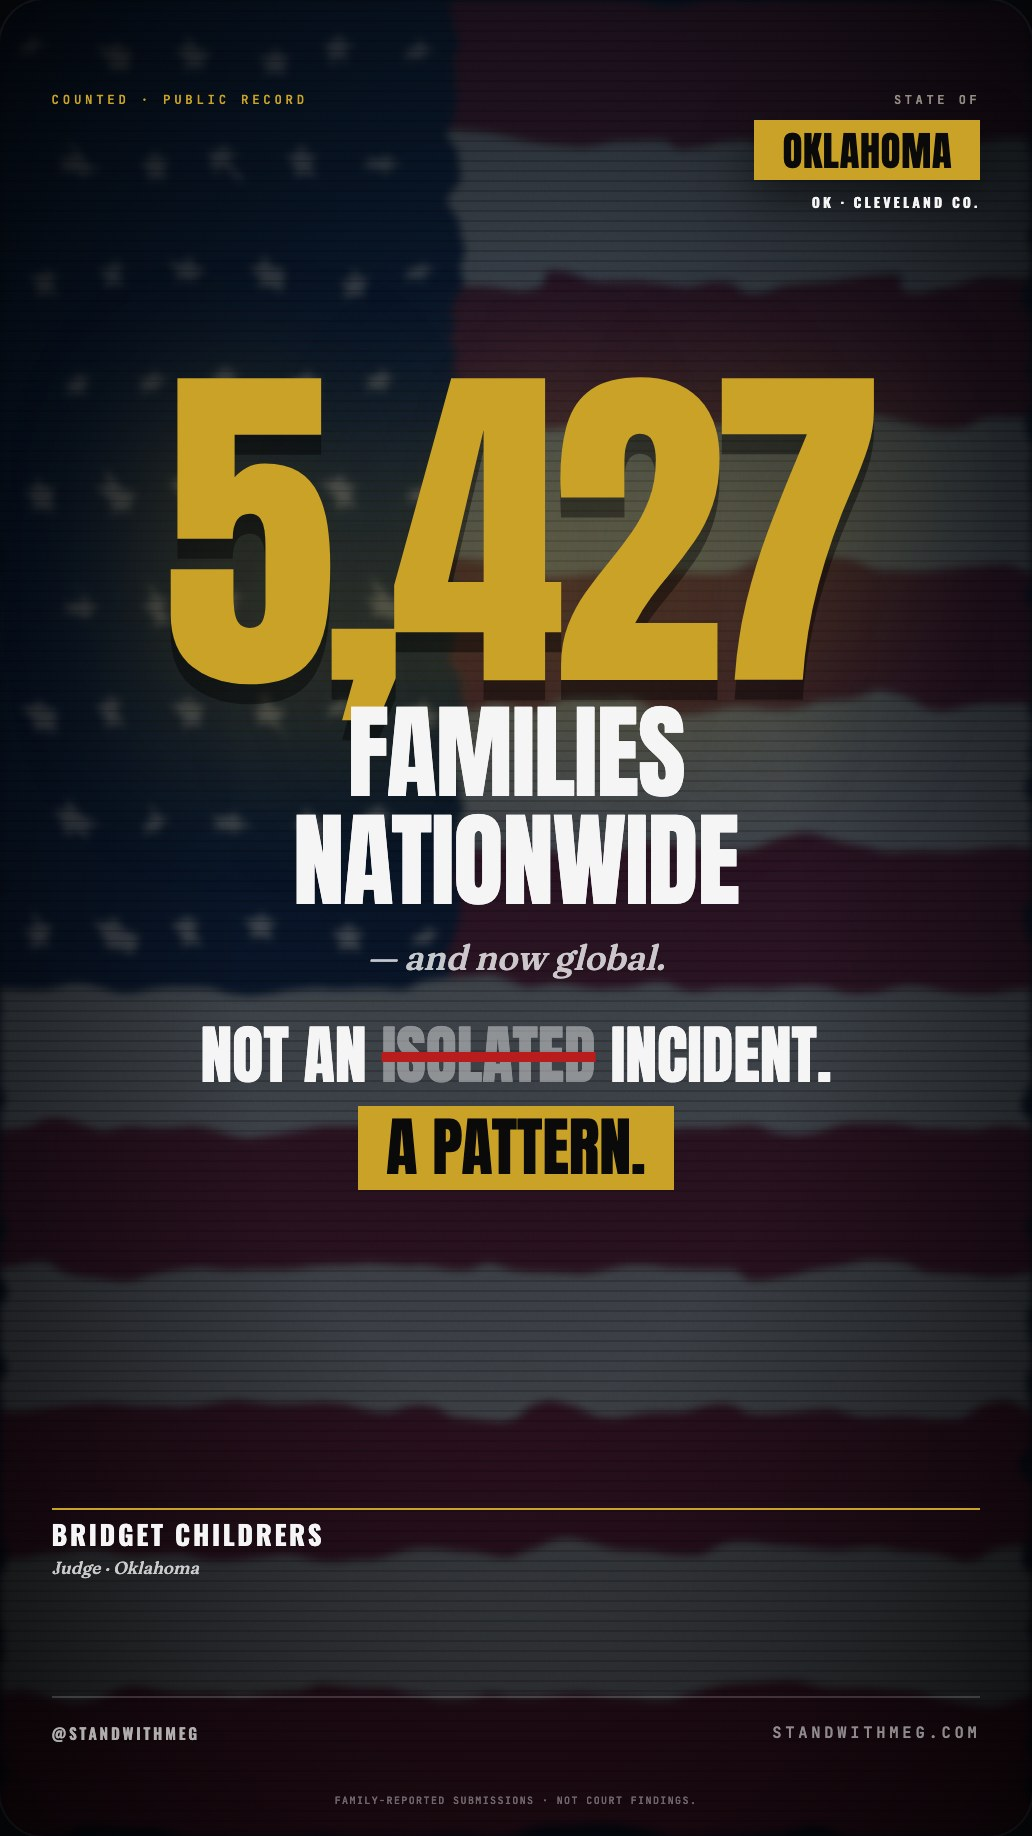
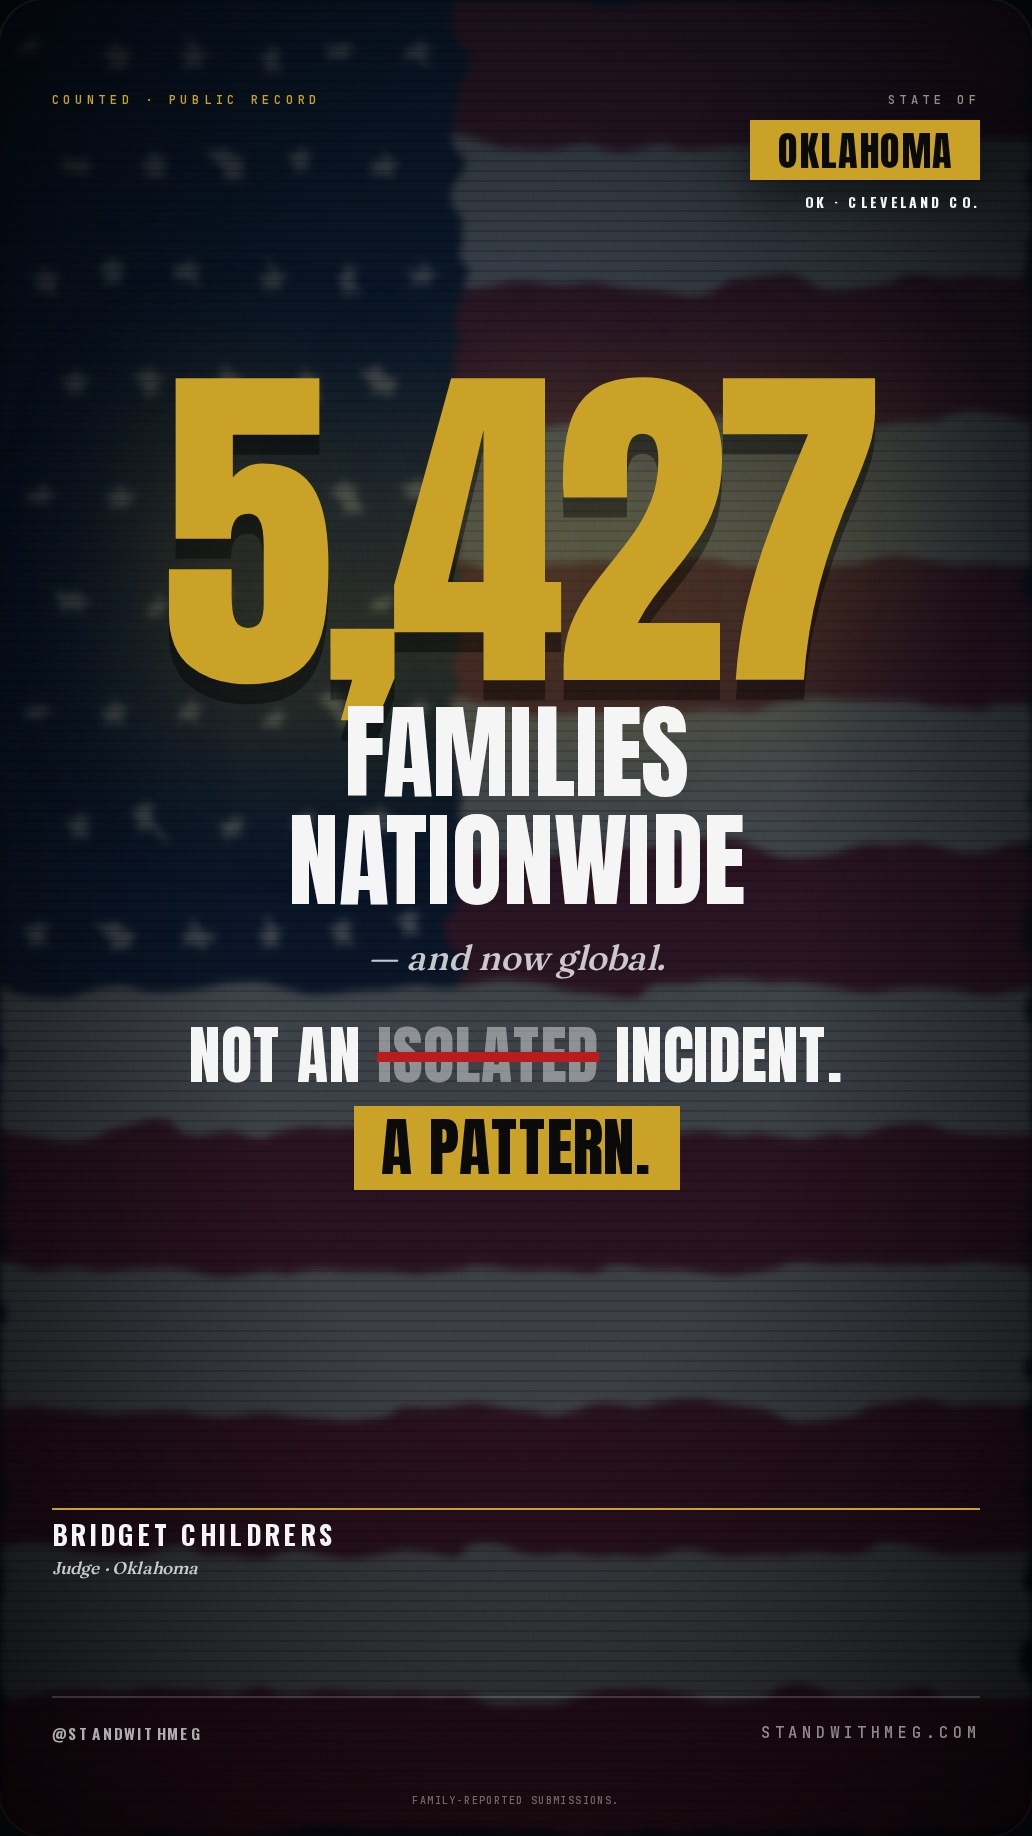
chore: auto-regenerate 11 report/share file(s) from live Supabase data

diff --git a/public/court-actors/ok/bridget_childers/share.html b/public/court-actors/ok/bridget_childers/share.html
@@ -532,6 +532,21 @@ html,body { background:#06070A; color:var(--white); font-family:Inter,system-ui,
 .review li { margin:8px 0; }
 
 @media (min-width:760px) { .share-scroll { padding-top:28px; } }
+/* Sponsor spotlight slot */
+.sponsor-slot { width:min(100%,540px); margin:14px auto 0; padding:0 12px; }
+.sponsor-slot-label { font-family:'JetBrains Mono',monospace; font-size:11px; letter-spacing:.16em; text-transform:uppercase; color:var(--gold); margin-bottom:8px; }
+.sponsor-card { background:linear-gradient(180deg,#ffffff,#f4f6f9); border-radius:14px; padding:16px; color:#15202b; box-shadow:0 16px 36px -16px rgba(0,0,0,.55); }
+.sponsor-card img { max-height:44px; width:auto; margin-bottom:10px; display:block; }
+.sponsor-card .services { font-size:13px; font-weight:800; }
+.sponsor-card .location { font-size:11px; color:#5b6675; margin-top:2px; }
+.sponsor-card .divider { height:1px; background:#e6e9ee; margin:12px 0; }
+.sponsor-card .phone { font-size:13px; font-weight:800; }
+.sponsor-card .tagline { font-size:11px; color:#7a8493; font-style:italic; margin-top:2px; }
+.sponsor-card .cta { display:inline-block; padding:8px 14px; border-radius:8px; font-size:12px; font-weight:800; color:#fff; text-decoration:none; }
+.sponsor-empty { display:block; border:2px dashed rgba(201,162,39,.4); border-radius:14px; padding:16px; text-align:center; text-decoration:none; }
+.sponsor-empty .eyebrow { font-size:10px; font-weight:800; text-transform:uppercase; letter-spacing:.14em; color:rgba(245,245,245,.45); }
+.sponsor-empty .headline { font-size:14px; font-weight:800; color:var(--gold); margin-top:6px; }
+.sponsor-empty .sub { font-size:11px; color:rgba(245,245,245,.5); margin-top:2px; }
 </style>
 </head>
 <body>
@@ -545,10 +560,17 @@ html,body { background:#06070A; color:var(--white); font-family:Inter,system-ui,
   </button>
 </div>
 <div class="bulk-progress" id="bulk-progress"></div>
+<section class="sponsor-slot" id="sponsor-slot" data-state="OK">
+  <a href="/sponsor" target="_blank" rel="noopener noreferrer" class="sponsor-empty">
+    <div class="eyebrow">Sponsor this spotlight</div>
+    <div class="headline">Your business here</div>
+    <div class="sub">Become a sponsor →</div>
+  </a>
+</section>
 <main class="share-scroll">
 <section class="phone-frame">
 <article class="frame frame-image" id="frame-01">
-  <img class="frame-img" src="frame-01.jpg" alt="Bridget Childrers share slide 1 of 7">
+  <img class="frame-img" src="frame-01.jpg?v=c4603e512b" alt="Bridget Childrers share slide 1 of 7">
 </article>
 
 <div class="frame-actions" aria-label="Frame 1 actions">
@@ -558,7 +580,7 @@ html,body { background:#06070A; color:var(--white); font-family:Inter,system-ui,
 </section>
 <section class="phone-frame">
 <article class="frame frame-image" id="frame-02">
-  <img class="frame-img" src="frame-02.jpg" alt="Bridget Childrers share slide 2 of 7">
+  <img class="frame-img" src="frame-02.jpg?v=3a20225603" alt="Bridget Childrers share slide 2 of 7">
 </article>
 
 <div class="frame-actions" aria-label="Frame 2 actions">
@@ -568,7 +590,7 @@ html,body { background:#06070A; color:var(--white); font-family:Inter,system-ui,
 </section>
 <section class="phone-frame">
 <article class="frame frame-image" id="frame-03">
-  <img class="frame-img" src="frame-03.jpg" alt="Bridget Childrers share slide 3 of 7">
+  <img class="frame-img" src="frame-03.jpg?v=c65ae4dd34" alt="Bridget Childrers share slide 3 of 7">
 </article>
 
 <div class="frame-actions" aria-label="Frame 3 actions">
@@ -578,7 +600,7 @@ html,body { background:#06070A; color:var(--white); font-family:Inter,system-ui,
 </section>
 <section class="phone-frame">
 <article class="frame frame-image" id="frame-04">
-  <img class="frame-img" src="frame-04.jpg" alt="Bridget Childrers share slide 4 of 7">
+  <img class="frame-img" src="frame-04.jpg?v=ec5c8157bc" alt="Bridget Childrers share slide 4 of 7">
 </article>
 
 <div class="frame-actions" aria-label="Frame 4 actions">
@@ -588,7 +610,7 @@ html,body { background:#06070A; color:var(--white); font-family:Inter,system-ui,
 </section>
 <section class="phone-frame">
 <article class="frame frame-image" id="frame-05">
-  <img class="frame-img" src="frame-05.jpg" alt="Bridget Childrers share slide 5 of 7">
+  <img class="frame-img" src="frame-05.jpg?v=e43fabe4bd" alt="Bridget Childrers share slide 5 of 7">
 </article>
 
 <div class="frame-actions" aria-label="Frame 5 actions">
@@ -598,7 +620,7 @@ html,body { background:#06070A; color:var(--white); font-family:Inter,system-ui,
 </section>
 <section class="phone-frame">
 <article class="frame frame-image" id="frame-06">
-  <img class="frame-img" src="frame-06.jpg" alt="Bridget Childrers share slide 6 of 7">
+  <img class="frame-img" src="frame-06.jpg?v=e9cc36b76e" alt="Bridget Childrers share slide 6 of 7">
 </article>
 
 <div class="frame-actions" aria-label="Frame 6 actions">
@@ -608,7 +630,7 @@ html,body { background:#06070A; color:var(--white); font-family:Inter,system-ui,
 </section>
 <section class="phone-frame">
 <article class="frame frame-image" id="frame-07">
-  <img class="frame-img" src="frame-07.jpg" alt="Bridget Childrers share slide 7 of 7">
+  <img class="frame-img" src="frame-07.jpg?v=6ba57a80ae" alt="Bridget Childrers share slide 7 of 7">
 </article>
 
 <div class="frame-actions" aria-label="Frame 7 actions">
@@ -667,7 +689,7 @@ html,body { background:#06070A; color:var(--white); font-family:Inter,system-ui,
     <div class="display xl">BRIDGET<br><span class="gold">CHILDRERS</span></div>
     <div class="f1-role">Judge</div>
     <div class="f1-report-count">
-      <b>1</b>
+      <b>3</b>
       <span>families named this person on the public record</span>
     </div>
     <div class="f1-state-count"><b>164</b> OK families in the Registry</div>
@@ -678,7 +700,7 @@ html,body { background:#06070A; color:var(--white); font-family:Inter,system-ui,
   <div class="mf-url">STANDWITHMEG.COM</div>
 </div>
 
-  <div class="legal">Family-reported submissions · not court findings.</div>
+  <div class="legal">Family-reported submissions.</div>
 </article>
 
 
@@ -725,7 +747,7 @@ html,body { background:#06070A; color:var(--white); font-family:Inter,system-ui,
 
   <div class="frame-tag">WHAT FAMILIES SAY</div>
   <div class="f4-body f4-count-2">
-    <div class="f4-quote"><span class="f4-dot"></span><p class="f4-text">Denied due process, lied multiple times in court, wouldn&#x27;t allow me to present evidence, blamed me for my own abuse Refusing to look at evidence, ignoring laws protecting DV survivors</p><p class="f4-attr">— Anonymous parent · OK</p></div><div class="f4-quote"><span class="f4-dot"></span><p class="f4-text">I’m going back in at the end of July to get my visatation back hopefully, and officially get the EPO removed since my ex doesn’t want to remove it.</p><p class="f4-attr">— Anonymous parent · OK</p></div>
+    <div class="f4-quote"><span class="f4-dot"></span><p class="f4-text">I’m going back in at the end of July to get my visatation back hopefully, and officially get the EPO removed since my ex doesn’t want to remove it.</p><p class="f4-attr">— Anonymous parent · OK</p></div><div class="f4-quote"><span class="f4-dot"></span><p class="f4-text">Denied due process, lied multiple times in court, wouldn&#x27;t allow me to present evidence, blamed me for my own abuse Refusing to look at evidence, ignoring laws protecting DV survivors</p><p class="f4-attr">— Anonymous parent · OK</p></div>
   </div>
 
 <div class="actor-id-strip">
@@ -739,7 +761,7 @@ html,body { background:#06070A; color:var(--white); font-family:Inter,system-ui,
   <div class="mf-url">STANDWITHMEG.COM</div>
 </div>
 
-  <div class="legal">Family-reported submissions · not court findings.</div>
+  <div class="legal">Family-reported submissions.</div>
 </article>
 
 
@@ -816,7 +838,7 @@ html,body { background:#06070A; color:var(--white); font-family:Inter,system-ui,
   <div class="mf-url">STANDWITHMEG.COM</div>
 </div>
 
-  <div class="legal">Family-reported submissions · not court findings.</div>
+  <div class="legal">Family-reported submissions.</div>
 </article>
 
 
@@ -888,7 +910,7 @@ html,body { background:#06070A; color:var(--white); font-family:Inter,system-ui,
   <div class="mf-url">STANDWITHMEG.COM</div>
 </div>
 
-  <div class="legal">Family-reported submissions · not court findings.</div>
+  <div class="legal">Family-reported submissions.</div>
 </article>
 
 
@@ -955,7 +977,7 @@ html,body { background:#06070A; color:var(--white); font-family:Inter,system-ui,
   <div class="mf-url">STANDWITHMEG.COM</div>
 </div>
 
-  <div class="legal">Family-reported submissions · not court findings.</div>
+  <div class="legal">Family-reported submissions.</div>
 </article>
 
 
@@ -1015,7 +1037,7 @@ html,body { background:#06070A; color:var(--white); font-family:Inter,system-ui,
     <div class="f7-visit">VISIT</div>
     <div class="url-pill"><span class="dot"></span>STANDWITHMEG.COM</div>
   </div>
-  <div class="legal f7-legal">FAMILY-REPORTED · NOT COURT FINDINGS</div>
+  <div class="legal f7-legal">FAMILY-REPORTED SUBMISSIONS.</div>
 </article>
 
 </div>
@@ -1024,7 +1046,7 @@ html,body { background:#06070A; color:var(--white); font-family:Inter,system-ui,
   <details>
     <summary>Audit notes</summary>
     <p>Spec source: <code>New Final Post and Capcut template/export/bridget_childers</code></p>
-    <ul><li>pdf_public_actor: helper exit 1: no public actor match for &#x27;Bridget Childrers&#x27; in OK</li></ul>
+    <ul><li>No unresolved fields recorded.</li></ul>
   </details>
 </aside>
 <script>
@@ -1304,6 +1326,44 @@ async function shareAllFrames() {
 
 document.getElementById('save-all-btn')?.addEventListener('click', saveAllFrames);
 document.getElementById('share-all-btn')?.addEventListener('click', shareAllFrames);
+// Sponsor spotlight slot — populated from /api/sponsors if an approved sponsor exists.
+(function() {
+  const slot = document.getElementById('sponsor-slot');
+  if (!slot) return;
+  const state = (slot.dataset.state || '').trim();
+  function esc(t) {
+    return String(t ?? '').replace(/&/g,'&amp;').replace(/</g,'&lt;').replace(/>/g,'&gt;').replace(/"/g,'&quot;');
+  }
+  function domainLabel(url) {
+    return url ? url.replace(/^https?:\/\//,'').replace(/\/$/,'') : 'Visit website';
+  }
+  function renderEmpty() {
+    slot.innerHTML = '<a href="/sponsor" target="_blank" rel="noopener noreferrer" class="sponsor-empty"><div class="eyebrow">Sponsor this spotlight</div><div class="headline">Your business here</div><div class="sub">Become a sponsor →</div></a>';
+  }
+  function renderCard(s) {
+    const accent = s.brand_color || '#1f93c7';
+    let html = '<div class="sponsor-card">';
+    if (s.logo_url) html += '<img src="' + esc(s.logo_url) + '" alt="' + esc(s.business_name) + '">';
+    if (s.services) html += '<div class="services">' + esc(s.services) + '</div>';
+    if (s.location_label) html += '<div class="location">' + esc(s.location_label) + '</div>';
+    html += '<div class="divider"></div><div style="display:flex;align-items:flex-end;justify-content:space-between;gap:12px;flex-wrap:wrap;">';
+    html += '<div>';
+    if (s.phone) html += '<div class="phone">' + esc(s.phone) + '</div>';
+    if (s.tagline) html += '<div class="tagline">' + esc(s.tagline) + '</div>';
+    html += '</div>';
+    if (s.website_url) html += '<a href="' + esc(s.website_url) + '" target="_blank" rel="noopener noreferrer" class="cta" style="background-color:' + esc(accent) + '">' + domainLabel(s.website_url) + '</a>';
+    html += '</div></div>';
+    slot.innerHTML = '<div class="sponsor-slot-label">Sponsored by</div>' + html;
+  }
+  fetch('/api/sponsors?placement=court_actor_spotlight&state=' + encodeURIComponent(state))
+    .then(r => r.json())
+    .then(d => {
+      const sponsors = Array.isArray(d && d.sponsors) ? d.sponsors : [];
+      const match = sponsors.find(x => x.slot === 'court_actor_spotlight') || sponsors[0];
+      if (match) renderCard(match); else renderEmpty();
+    })
+    .catch(() => renderEmpty());
+})();
 </script>
 </body>
 </html>
